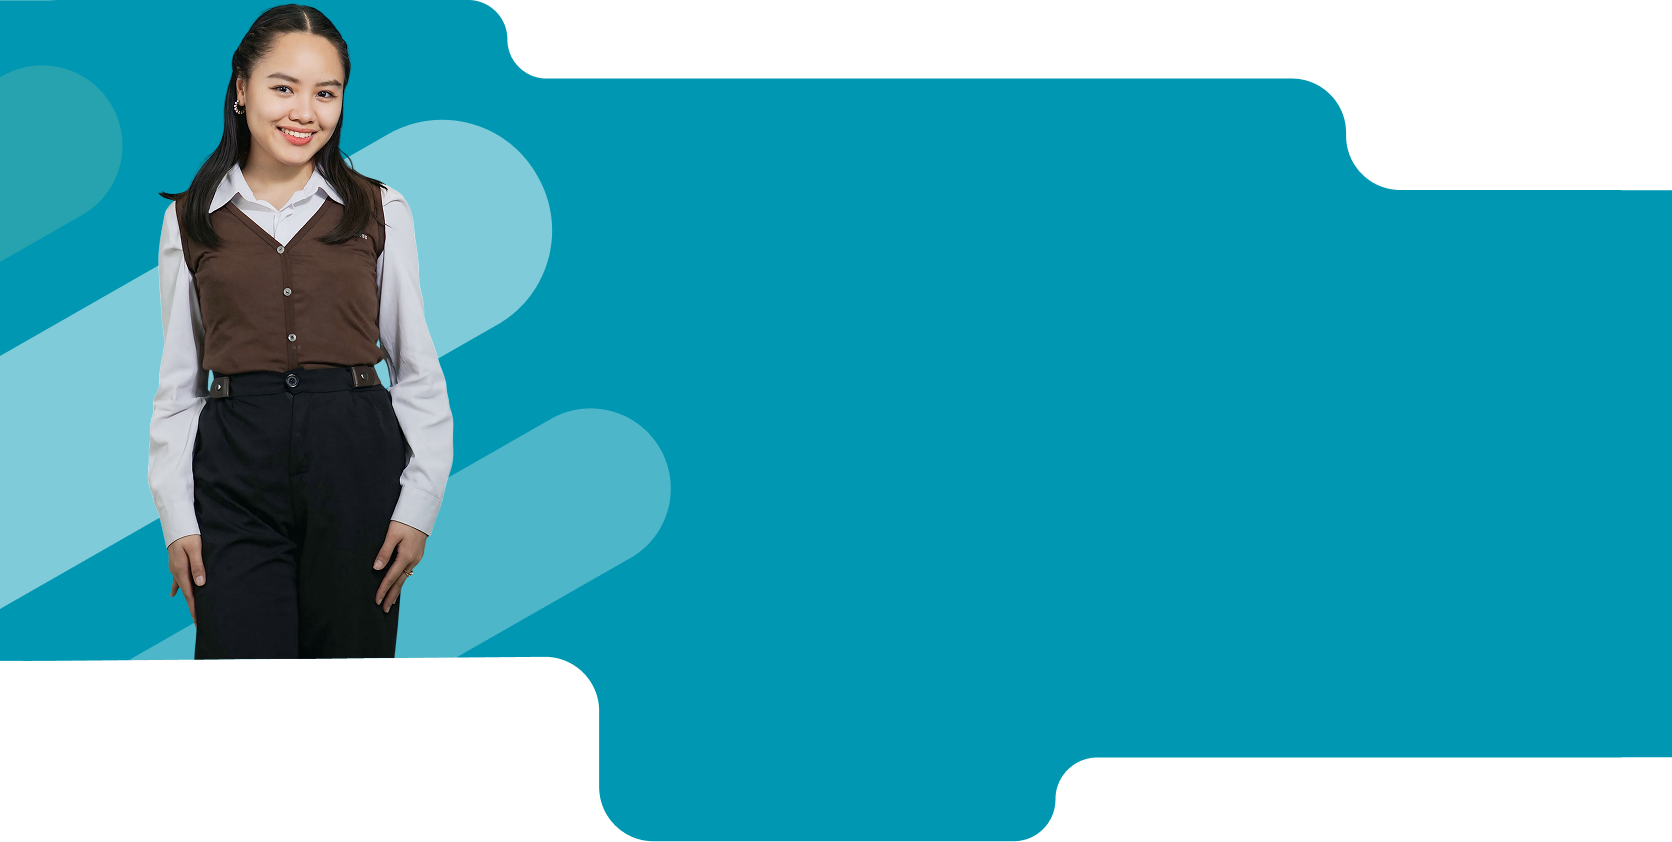
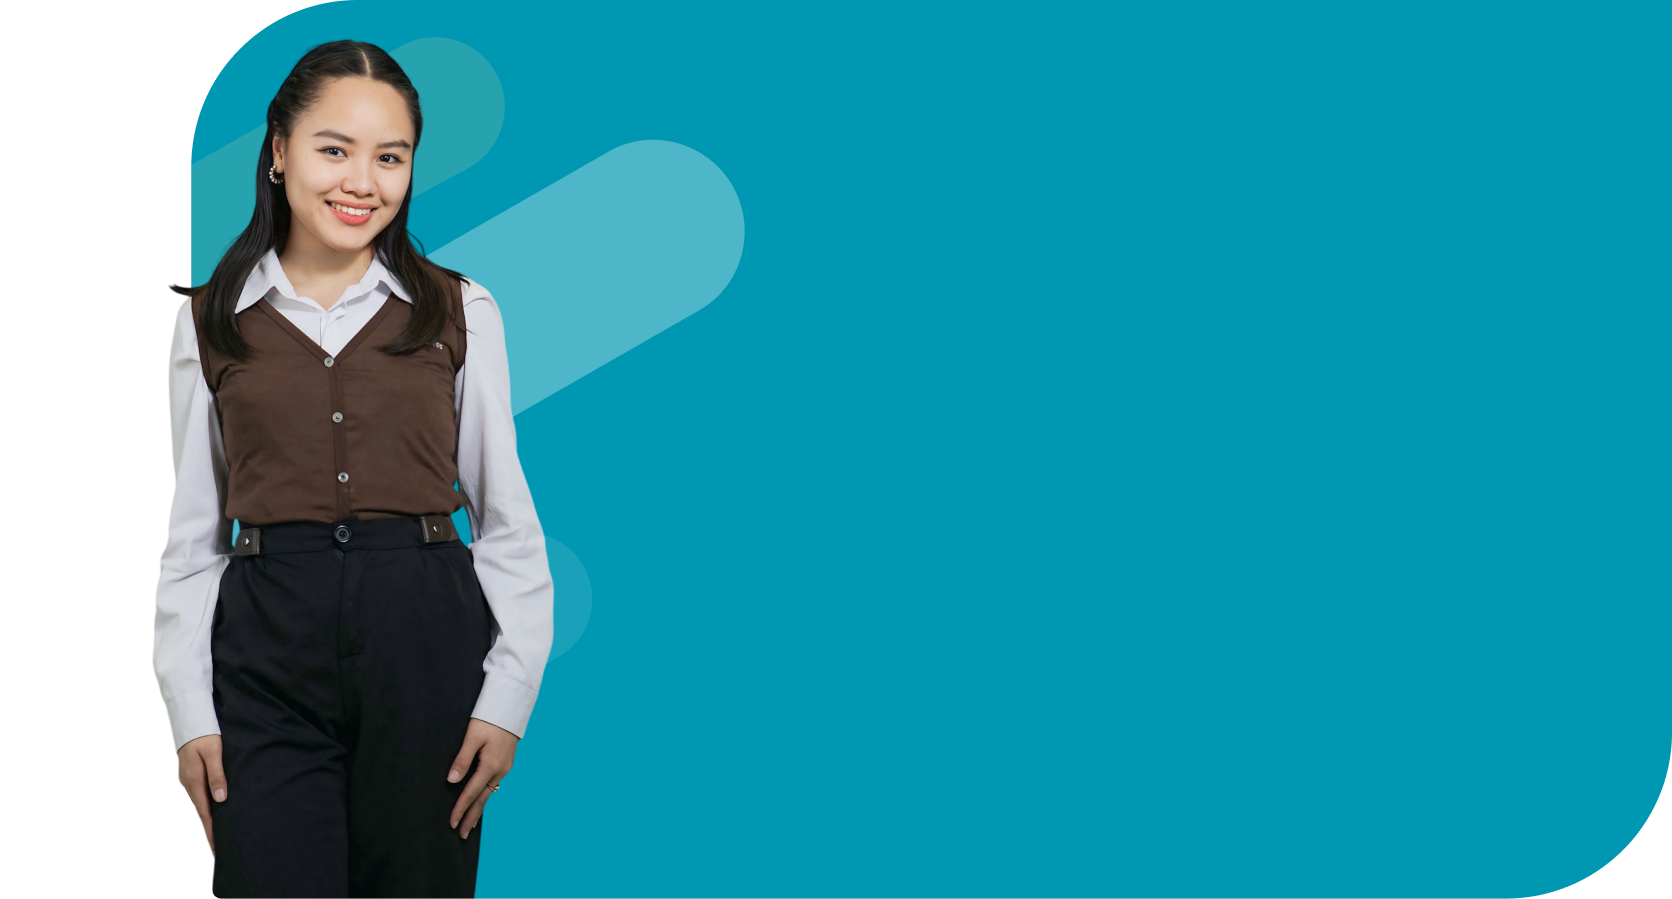
feat: add new CareerCarousel component and update Home page layout; include new background images and adjust styles

diff --git a/src/pages/guest/AboutUs.jsx b/src/pages/guest/AboutUs.jsx
@@ -77,37 +77,29 @@ const AboutUs = () => {
         <section className="overflow-hidden about-container" id="our-story">
           <div className="h-56 w-72">
             <img
-              style={{ animation: "slideInFromLeft 0.8s ease-out forwards" }}
+              // style={{ animation: "slideInFromLeft 0.8s ease-out forwards" }}
               className="w-full h-full object-cover rounded-r-3xl "
               src="https://images.unsplash.com/photo-1739382121445-19b3460a9e7a?q=80&w=2071&auto=format&fit=crop&ixlib=rb-4.0.3&ixid=M3wxMjA3fDB8MHxwaG90by1wYWdlfHx8fGVufDB8fHx8fA%3D%3D"
             />
           </div>
-          <motion.div
-            initial={{ opacity: 0, x: -50 }}
-            animate={{ opacity: 1, x: 0 }}
-            transition={{ duration: 0.8, ease: "easeOut" }}
-            className="about-text-banner flex flex-col mb-2"
+          <div className="about-text-banner flex flex-col mb-2"
           >
-            <motion.h2
-              initial={{ opacity: 0, y: 20 }}
-              animate={{ opacity: 1, y: 0 }}
-              transition={{ duration: 0.8, ease: "easeOut", delay: 1 }}
-              className="font-avenir-black px-5"
+            <h2 className="font-avenir-black px-5"
             >
               {content.textBanner}
-            </motion.h2>
+            </h2>
 
-            <motion.div
+            {/* <motion.div
               initial={{ x: 100, opacity: 0 }}
               animate={{ x: 0, opacity: 1 }}
               transition={{ duration: 0.8, ease: "easeOut", delay: 0.4 }}
               className="h-10 w-20 lg:h-20 lg:w-32 rounded-l-2xl bg-primary ml-auto mb-2"
-            />
-          </motion.div>
+            /> */}
+          </div>
 
           <div className="mx-5">
             <img
-              className="w-full h-full object-cover rounded-3xl animate-slideInLong"
+              className="w-full h-full object-cover rounded-3xl"
               src="https://images.unsplash.com/photo-1739382120576-b1434e8bc4d3?q=80&w=1975&auto=format&fit=crop&ixlib=rb-4.0.3&ixid=M3wxMjA3fDB8MHxwaG90by1wYWdlfHx8fGVufDB8fHx8fA%3D%3D"
             />
           </div>
@@ -264,9 +256,9 @@ const AboutUs = () => {
 
         {/* Mission Vision LASTLY: CHANGE LAYOUT FOR MOBILE. BREAKPOINT: 480px */}
         <section className="flex justify-center mb-[5%] md:mb-0 md:pb-[0%]">
-          <div className="grid grid-cols-2 grid-rows-2 px-[5%] lg:max-h-[1600px]">
+          <div  className="grid grid-cols-2 grid-rows-2 px-[5%] lg:max-h-[1600px]">
             {/* Mission Image */}
-            <section>
+            <section id="our-mission">
               <div className="flex justify-end absolute md:relative">
                 <div className="-translate-x-[20%] md:translate-y-[10%] md:translate-x-[10%] bg-primary/50 p-[5%] max-h-[800px] rounded-2xl lg:rounded-4xl size-[50vw] md:aspect-4/3">
                   <img
@@ -279,7 +271,7 @@ const AboutUs = () => {
             </section>
 
             {/* Mission Text */}
-            <article className=" mission-vision-text flex flex-col justify-center items-start text-end">
+            <article  className=" mission-vision-text flex flex-col justify-center items-start text-end">
               <div className="md:pl-[14%] pl-[0%]">
                 <p className="blue-text uppercase font-avenir-black text-primary">
                   FullSuite Mission
@@ -292,7 +284,7 @@ const AboutUs = () => {
             </article>
 
             {/* Vision Text */}
-            <section>
+            <section id="our-vision">
               <article className="pt-[15%] -mr-7 md:mr-1 md:pt-[18%] lg:pt-[23%] md:pr-[13%] mission-vision-text flex flex-col justify-start items-start text-start">
                 <p className="blue-text uppercase w-full font-avenir-black text-primary">
                   Fullsuite Vision
@@ -455,7 +447,7 @@ const AboutUs = () => {
         </div> */}
       </main>
       <BackToTop />
-      
+
       <FooterNew />
     </section>
   );

diff --git a/src/components/news/NewsList.jsx b/src/components/news/NewsList.jsx
@@ -11,17 +11,17 @@ const newsList = [
       {
         image:
           "https://about.fb.com/wp-content/uploads/2023/09/GettyImages-686732223.jpg",
-        caption: "FullSuite team discussing startup growth strategies",
+        // caption: "FullSuite team discussing startup growth strategies",
       },
       {
         image:
           "https://images.unsplash.com/photo-1579567761406-4684ee0c75b6?fm=jpg&q=60&w=3000&ixlib=rb-4.0.3&ixid=M3wxMjA3fDB8MHxzZWFyY2h8MTF8fHRlY2h8ZW58MHx8MHx8fDA%3D",
-        caption: "Startups leveraging FullSuite’s financial solutions",
+        // caption: "Startups leveraging FullSuite’s financial solutions",
       },
       {
         image:
           "https://images.unsplash.com/photo-1541746972996-4e0b0f43e02a?fm=jpg&q=60&w=3000&ixlib=rb-4.0.3&ixid=M3wxMjA3fDB8MHxzZWFyY2h8Nnx8c3RhcnR1cHxlbnwwfHwwfHx8MA%3D%3D",
-        caption: "FullSuite helping startups scale operations",
+        // caption: "FullSuite helping startups scale operations",
       },
     ],
   },
@@ -37,16 +37,16 @@ const newsList = [
       {
         image:
           "https://www.jeffbullas.com/wp-content/uploads/2020/06/Startup-Funding-%E2%80%93-A-Comprehensive-Guide-for-Entrepreneurs.jpg",
-        caption: "FullSuite’s financial services for startups",
+        // caption: "FullSuite’s financial services for startups",
       },
       {
         image:
           "https://media.licdn.com/dms/image/v2/D5612AQEubj8AkC71DA/article-cover_image-shrink_720_1280/article-cover_image-shrink_720_1280/0/1714050908982?e=2147483647&v=beta&t=fTC9fr9fl9Ho5ZppHR76pTkWXNA4FDn69jc9v-Gdh4g",
-        caption: "Tech startups leveraging FullSuite’s expertise",
+        // caption: "Tech startups leveraging FullSuite’s expertise",
       },
       {
         image: "https://wallpaperaccess.com/full/1104816.jpg",
-        caption: "Navigating financial growth with FullSuite",
+        // caption: "Navigating financial growth with FullSuite",
       },
     ],
   },
@@ -62,17 +62,17 @@ const newsList = [
       {
         image:
           "https://www.ceo-review.com/wp-content/uploads/2022/11/Tech-Entrepreneur.jpg ",
-        caption: "FullSuite enabling smarter startup scaling",
+        // caption: "FullSuite enabling smarter startup scaling",
       },
       {
         image:
           "https://www.clicdata.com/wp-content/uploads/2020/01/blog-inside-story-tech-startup.png",
-        caption: "A startup leveraging FullSuite’s services",
+        // caption: "A startup leveraging FullSuite’s services",
       },
       {
         image:
           "https://media.licdn.com/dms/image/v2/D5612AQEubj8AkC71DA/article-cover_image-shrink_720_1280/article-cover_image-shrink_720_1280/0/1714050908982?e=2147483647&v=beta&t=fTC9fr9fl9Ho5ZppHR76pTkWXNA4FDn69jc9v-Gdh4g",
-        caption: "FullSuite’s role in startup growth and operations",
+        // caption: "FullSuite’s role in startup growth and operations",
       },
     ],
   },
@@ -109,7 +109,7 @@ const newsList = [
       {
         image:
           "https://www.clicdata.com/wp-content/uploads/2020/01/blog-inside-story-tech-startup.png",
-        caption: "FullSuite supporting startups in global expansion",
+        // caption: "FullSuite supporting startups in global expansion",
       },
       { image: "", caption: "Managing international finances with FullSuite" },
       { image: "", caption: "How FullSuite aids startups in compliance" },

diff --git a/src/components/home/CareerCarousel.jsx b/src/components/home/CareerCarousel.jsx
@@ -1,0 +1,76 @@
+import { Swiper, SwiperSlide } from "swiper/react";
+import { Pagination, Autoplay } from "swiper/modules"; // Import Autoplay
+import "swiper/css";
+import "swiper/css/pagination";
+
+const careerIndustries = [
+  {
+    image:
+      "https://www.anzac.co.in/wp-content/uploads/2024/03/business-process-outsourcing.jpg",
+    name: "Data Operations",
+  },
+  {
+    image:
+      "https://i1.wp.com/ebcallcenter.com/wp-content/uploads/BPO-1.jpg?fit=750%2C437&ssl=1",
+    name: "Business Operations",
+  },
+  {
+    image:
+      "https://media.istockphoto.com/id/1645012505/photo/analytics-chart-business-analysis-chart-kpi-showing-icon-on-virtual-screen-monitor-laptop-by.jpg?s=612x612&w=0&k=20&c=t82vo8fipJUrwEpHGU2y-rUQN_i7BrXYoxvLgMcDe18=",
+    name: "Finance Operations",
+  },
+  {
+    image:
+      "https://media.istockphoto.com/id/1021137062/photo/software-developers-doing-some-research.jpg?s=612x612&w=0&k=20&c=K3YdSFPGGCUSwSWkeZ_nuhWszRxpjNJe5sRBYJkFMpQ=",
+    name: "Software Development",
+  },
+  {
+    image:
+      "https://beta.tourism.gov.ph/wp-content/uploads/2024/06/FBSE_PHOTO_11-scaled.jpg",
+    name: "Culinary",
+  },
+  {
+    image:
+      "https://www.georginalittlephotography.co.uk/wp-content/uploads/2024/09/Alex-Chell-2-1080x675.jpg",
+    name: "Branding",
+  },
+];
+
+const CareerCarousel = () => {
+  return (
+    <section className="w-[80%]! mx-auto px-6">
+      <Swiper
+        modules={[Pagination, Autoplay]}
+        spaceBetween={40}
+        slidesPerView={1}
+        breakpoints={{
+          640: { slidesPerView: 1 },
+          768: { slidesPerView: 3 },
+          1024: { slidesPerView: 4 },
+          1280: { slidesPerView: 5 },
+          1440: { slidesPerView: 5 },
+        }}
+        autoplay={{ delay: 5000, disableOnInteraction: false }}
+        pagination={{ clickable: true }}
+        className="pb-10"
+      >
+        {careerIndustries.map((career, index) => (
+          <SwiperSlide key={index} className="my-5 flex justify-center">
+            <div className="rounded-2xl shadow-lg overflow-hidden w-64 bg-white p-3 transition-all duration-300 hover:bg-primary hover:text-white hover:scale-105">
+              <img
+                src={career.image}
+                alt={career.name}
+                className="w-full aspect-[3/4] object-cover rounded-lg"
+              />
+              <p className="text-center mt-3 font-medium text-lg sm:text-xl">
+                {career.name}
+              </p>
+            </div>
+          </SwiperSlide>
+        ))}
+      </Swiper>
+    </section>
+  );
+};
+
+export default CareerCarousel;

diff --git a/src/components/about-us/TestimonialSection.jsx b/src/components/about-us/TestimonialSection.jsx
@@ -46,7 +46,7 @@ const Testimonials = () => {
             <SwiperSlide key={testimonial.id}>
               {({ isActive }) => (
                 <div
-                  className={`p-6 mt-4 ease-out bg-white shadow-lg rounded-lg text-center transition-transform duration-300 ${
+                  className={`p-10 mt-4 ease-out bg-white shadow-lg rounded-lg text-center transition-transform duration-300 ${
                     isActive
                       ? "scale-90 md:scale-110 bg-primary text-white md:hover:scale-115"
                       : "scale-90 opacity-75 hover:-translate-y-2"
@@ -55,21 +55,21 @@ const Testimonials = () => {
                   <img
                     src={bgQuotes}
                     alt="quote"
-                    className="absolute translate-x-7 translate-y-22 -rotate-15 w-16 mx-auto mb-4"
+                    className="absolute translate-x-5 translate-y-22 -rotate-5 w-16 mx-auto mb-4"
                   />
                   <img
                     src={testimonial.image}
                     alt={testimonial.name}
                     className="size-30 mx-auto rounded-full mb-4 object-cover"
                   />
-                  <h3 className="text-lg font-semibold text-gray-900">
-                    {testimonial.name}
-                  </h3>
-                  <p className={`text-sm text-gray-500`}>
-                    {testimonial.position}
-                  </p>
-                  <p className={`mt-4 text-gray-700`}>
+                  <p className={`mt-4 text-gray-700 md:text-[14px]!`}>
                     {testimonial.testimony}
+                  </p><br />
+                  <p className="text-[14px]! font-avenir-black  text-primary">
+                    {testimonial.name}
+                  </p>
+                  <p className={`text-[12px]! text-gray-400`}>
+                    {testimonial.position}
                   </p>
                 </div>
               )}

diff --git a/src/pages/guest/Home.jsx b/src/pages/guest/Home.jsx
@@ -18,6 +18,7 @@ import BackToTop from "../../components/BackToTop";
 import { Helmet } from "@dr.pogodin/react-helmet";
 import PageMeta from "../../components/layout/PageMeta";
 import FooterNew from "../../components/FooterNew";
+import CareerCarousel from "../../components/home/CareerCarousel";
 
 const Home = () => {
   const [width, setWidth] = useState(window.innerWidth); //FOR DEBUGGING
@@ -178,7 +179,7 @@ const Home = () => {
           </p>
         </div>
         {/* Blue */}
-        <div id="left-side" className="side pb-17 relative">
+        <div id="left-side" className="side pb-17 relative rounded-r-4xl md:rounded-r-[50px]">
           <img
             src={rocketship}
             alt="Rocketship"
@@ -205,6 +206,18 @@ const Home = () => {
       {/* GOAL AND OPERATIONS */}
       <HomeGoalsOperations />
       {/* <div className="h-300 bg-red-900"></div> */}
+
+      <div className="mb-16 text-center">
+          <span className="text-sm text-primary  font-avenir-black block mb-4">
+            WHAT WE OFFER
+          </span>
+          <p className="text-4xl font-bold font-avenir-black text-dark">
+          Your Next Career Starts Here
+          </p>
+        </div>
+      <CareerCarousel />
+
+
       {/* NEWS SECTION */}
       <HomeNews />
 

diff --git a/src/components/home/HomeGoalsOperations.jsx b/src/components/home/HomeGoalsOperations.jsx
@@ -120,8 +120,8 @@ const HomeGoalsOperations = () => {
             className="-z-10 w-[100%] hidden sm:block"
           />
         </MotionUp>
-
-        <section className="flex flex-col sm:flex-row justify-center items-center md:flex-row gap-3 lg:gap-8 xl:gap-10 px-4 max-h-min">
+{/* 
+        <section className="flex flex-col sm:flex-row justify-center items-start md:flex-row gap-3 lg:gap-8 xl:gap-10 px-4 max-h-min">
   {operations.slice(-3).map((op, index) => (
     <MotionUp
       key={index}
@@ -131,10 +131,11 @@ const HomeGoalsOperations = () => {
         px-[10%] 
         sm:px-0 
         flex flex-col items-center
-        ${index === 0 ? "sm:transform sm:-translate-y-[28%]" : ""}
-        ${index === 2 ? "admin-op sm:transform sm:-translate-y-[8%]" : ""}
+  
       `}
-    >
+    >     
+     ${index === 0 ? "sm:transform sm:-translate-y-[28%]" : ""}
+        ${index === 2 ? "admin-op sm:transform sm:-translate-y-[8%]" : ""}
       <img
         className="rounded-4xl sm:rounded-3xl size-[80%] lg:size-[60%] object-cover aspect-[3/4] transition-all duration-300 hover:scale-95"
         src={op.image}
@@ -145,7 +146,7 @@ const HomeGoalsOperations = () => {
       </p>
     </MotionUp>
   ))}
-</section>
+</section> */}
 
       </div>
 
